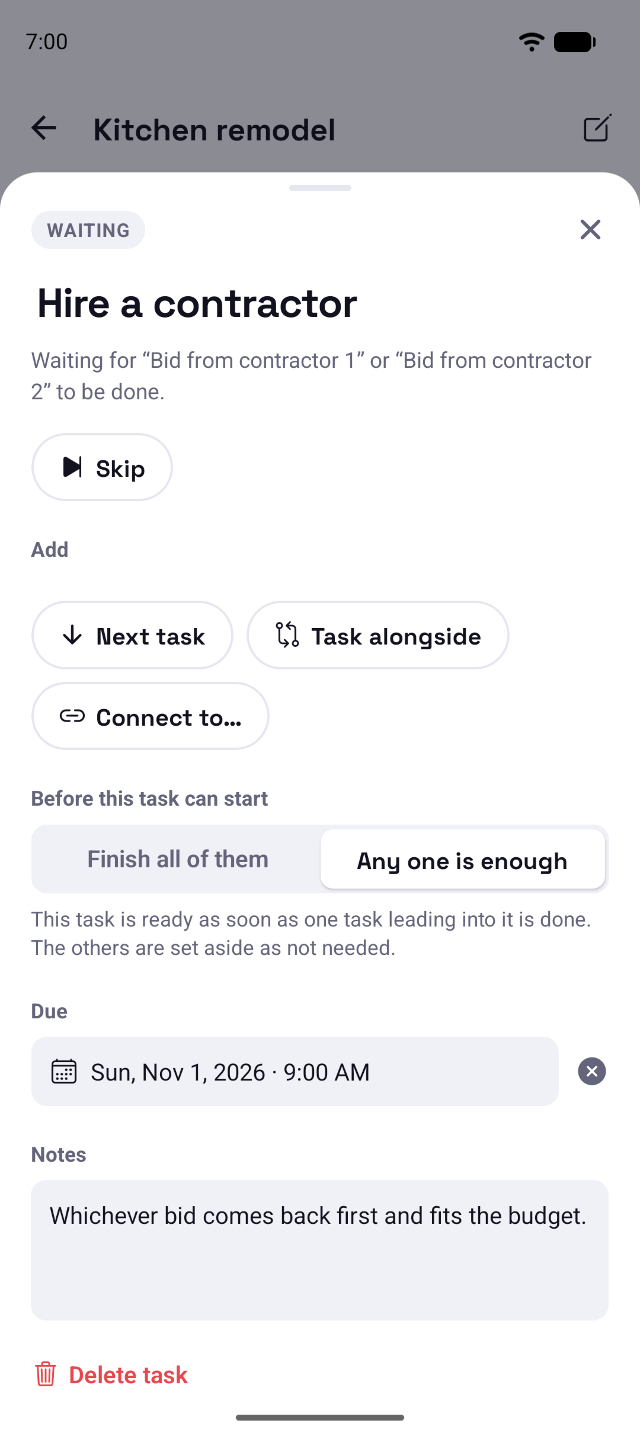
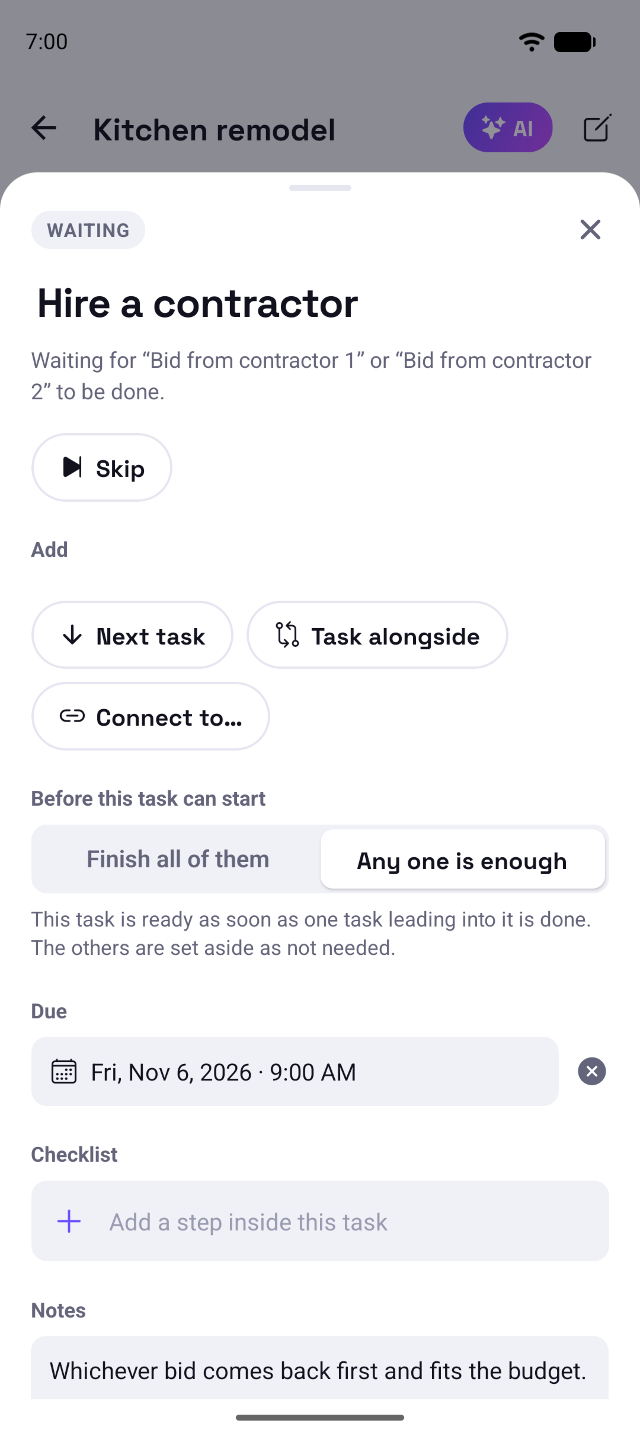
Current screenshots; checklists, tappable notes, backups and snooze on the homepage

diff --git a/index.html b/index.html
@@ -4,7 +4,7 @@
   <meta charset="UTF-8" />
   <meta name="viewport" content="width=device-width, initial-scale=1.0" />
   <title>Zayvori — big jobs, one next step at a time</title>
-  <meta name="description" content="Moving, remodeling, planning an event: describe it and Zayvori drafts the steps, then shows only what you can do today. Templates, reminders, and your plans stay on your phone. Plan with AI in Zayvori Premium. Coming soon to Android." />
+  <meta name="description" content="Moving, remodeling, planning an event: Zayvori knows which tasks wait for others, so you see what you can do today. No account, works offline, and your plans stay on your phone. Plan with AI in Zayvori Premium. Coming soon to Android." />
   <link rel="canonical" href="https://zayvori.com/" />
   <meta name="theme-color" content="#6A4DFF" />
 
@@ -108,7 +108,7 @@
             <h3>Zayvori</h3>
             <div class="phone phone--shot phone--small">
               <img src="assets/screens/kitchen-todo.png" width="640" height="1436" loading="lazy"
-                alt="Zayvori’s To do view: two bids ready now, and everything else under Coming up with what it waits for." />
+                alt="Zayvori’s To do view: two bids ready now, one with its checklist a third done, and everything else under Coming up with what it waits for." />
             </div>
             <p class="compare__verdict">Two things you can do now. The rest waits its turn and says what it’s waiting for. When the first bid comes back, the other is set aside for you.</p>
           </div>
@@ -174,7 +174,7 @@
         <div class="describe__shots fade">
           <div class="phone phone--shot phone--small">
             <img src="assets/screens/today.png" width="640" height="1436" loading="lazy"
-              alt="The Today tab: overdue tasks from three plans, each with its plan’s name and due date, and one still waiting on two bids." />
+              alt="The Today tab: three overdue tasks from three plans, each with its plan’s name and due date, then one more ready now." />
           </div>
         </div>
       </div>
@@ -267,7 +267,7 @@
           <article class="feature fade">
             <div class="feature__icon"><svg viewBox="0 0 24 24" fill="none" stroke="currentColor" stroke-width="2" stroke-linecap="round" stroke-linejoin="round" aria-hidden="true"><path d="M18 8a6 6 0 0 0-12 0c0 7-3 9-3 9h18s-3-2-3-9"/><path d="M13.7 21a2 2 0 0 1-3.4 0"/></svg></div>
             <h3>Reminders you can act on</h3>
-            <p>A heads-up before something’s due, another when it is, and a morning summary. Mark it complete right from the notification.</p>
+            <p>A heads-up before something’s due, another when it is, and a morning summary. Mark it complete, or snooze it for an hour, right from the notification.</p>
           </article>
           <article class="feature fade">
             <div class="feature__icon"><svg viewBox="0 0 24 24" fill="none" stroke="currentColor" stroke-width="2" stroke-linecap="round" stroke-linejoin="round" aria-hidden="true"><path d="M3 12h4l3-8 4 16 3-8h4"/></svg></div>
@@ -293,6 +293,21 @@
             <div class="feature__icon"><svg viewBox="0 0 24 24" fill="none" stroke="currentColor" stroke-width="2" stroke-linecap="round" stroke-linejoin="round" aria-hidden="true"><path d="M17 2l4 4-4 4"/><path d="M3 11v-1a4 4 0 0 1 4-4h14"/><path d="M7 22l-4-4 4-4"/><path d="M21 13v1a4 4 0 0 1-4 4H3"/></svg></div>
             <h3>Plans that come around again</h3>
             <p>Set monthly bills, a quarterly tax return or yearly car maintenance to repeat, and the next round starts by itself, right on schedule. Or run any finished plan again in a tap.</p>
+          </article>
+          <article class="feature fade">
+            <div class="feature__icon"><svg viewBox="0 0 24 24" fill="none" stroke="currentColor" stroke-width="2" stroke-linecap="round" stroke-linejoin="round" aria-hidden="true"><path d="M3 5l2 2 4-4"/><path d="M3 13l2 2 4-4"/><path d="M13 6h8"/><path d="M13 14h8"/><path d="M13 21h8"/><path d="M4 20.5h4"/></svg></div>
+            <h3>Checklists for the small steps</h3>
+            <p>“Pack the kitchen” doesn’t need five tasks of its own. Add plates, glasses and pans as a checklist inside it, and see how far you’ve got at a glance.</p>
+          </article>
+          <article class="feature fade">
+            <div class="feature__icon"><svg viewBox="0 0 24 24" fill="none" stroke="currentColor" stroke-width="2" stroke-linecap="round" stroke-linejoin="round" aria-hidden="true"><path d="M10 13a5 5 0 0 0 7.5.5l3-3a5 5 0 0 0-7-7l-1.7 1.7"/><path d="M14 11a5 5 0 0 0-7.5-.5l-3 3a5 5 0 0 0 7 7l1.7-1.7"/></svg></div>
+            <h3>Notes you can tap</h3>
+            <p>Keep the plumber’s number, a product link or an email address in a task’s notes. One tap calls, opens or writes.</p>
+          </article>
+          <article class="feature fade">
+            <div class="feature__icon"><svg viewBox="0 0 24 24" fill="none" stroke="currentColor" stroke-width="2" stroke-linecap="round" stroke-linejoin="round" aria-hidden="true"><path d="M21 15v4a2 2 0 0 1-2 2H5a2 2 0 0 1-2-2v-4"/><path d="M7 10l5 5 5-5"/><path d="M12 15V3"/></svg></div>
+            <h3>A backup you control</h3>
+            <p>Save everything to a file whenever you like and keep it in Drive, email or your files, ready for a new phone. Restore adds or replaces, your choice.</p>
           </article>
         </div>
       </div>
